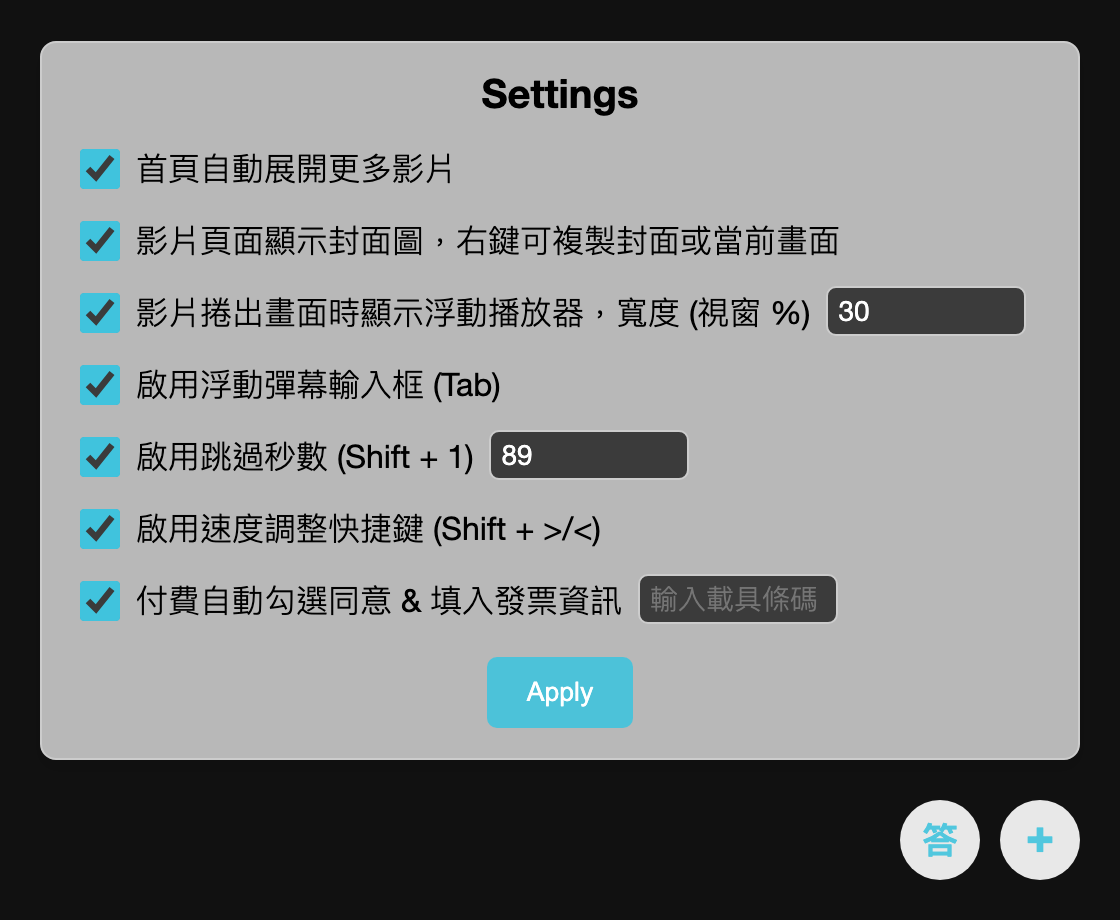
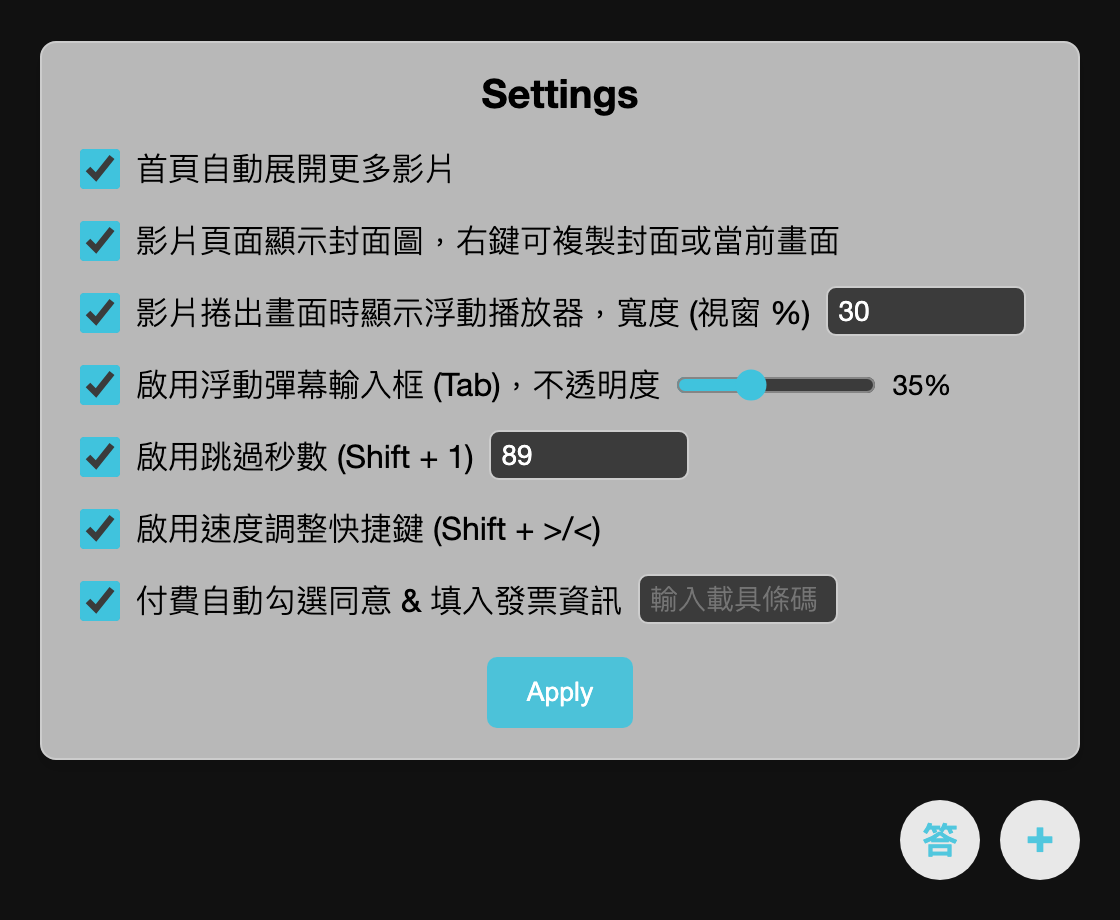
feat(danmuku): 彈幕輸入框改為半透明黑底並可調整不透明度
移除毛玻璃模糊、陰影與聚焦時的青色邊框，改用純黑半透明背景。設定面板新增 0–100% 不透明度滑桿（預設 35%），拖動時即時套用到開啟中的輸入框，按 Apply 儲存。

Changed region(s): [[0.4688, 0.3957, 0.8438, 0.4565]]

diff --git a/utils.js b/utils.js
@@ -174,6 +174,19 @@ function injectStyles() {
             outline: none;
         }
 
+        .anigamerkit-settings-range {
+            width: 100px;
+            margin-left: 8px;
+            accent-color: rgb(64, 195, 221);
+        }
+
+        .anigamerkit-settings-range-value {
+            min-width: 3.5em;
+            margin-left: 6px;
+            font-size: 14px;
+            text-align: left;
+        }
+
         .anigamerkit-settings-apply {
             flex-shrink: 0;
             align-self: center;
@@ -524,35 +537,29 @@ function injectStyles() {
             box-sizing: border-box;
             margin: 0;
             padding: 12px 20px;
-            border: 1px solid rgba(255, 255, 255, 0.28);
+            border: 1px solid rgba(255, 255, 255, 0.18);
             border-radius: 999px;
-            background: linear-gradient(135deg, rgba(255, 255, 255, 0.18), rgba(255, 255, 255, 0.06));
-            -webkit-backdrop-filter: blur(18px) saturate(180%);
-            backdrop-filter: blur(18px) saturate(180%);
-            box-shadow:
-                0 8px 32px rgba(0, 0, 0, 0.35),
-                inset 0 1px 0 rgba(255, 255, 255, 0.35);
+            /* Plain black tint, strength set from the settings panel via applyDanmukuBoxOpacity */
+            background: rgba(0, 0, 0, var(--anigamerkit-danmuku-box-alpha, 0.35));
+            -webkit-backdrop-filter: none;
+            backdrop-filter: none;
+            box-shadow: none !important;
+            outline: none !important;
             color: #fff;
-            caret-color: rgb(64, 195, 221);
+            caret-color: #fff;
             font-size: 16px;
             line-height: 1.4;
             letter-spacing: 0.02em;
-            text-shadow: 0 1px 2px rgba(0, 0, 0, 0.5);
-            outline: none;
-            transition: border-color 0.2s, box-shadow 0.2s;
         }
 
         #custom-input-box::placeholder {
-            color: rgba(255, 255, 255, 0.65);
+            color: rgba(255, 255, 255, 0.55);
             opacity: 1;
         }
 
+        /* No focus highlight: same look whether or not the box is focused */
         #custom-input-box:focus {
-            border-color: rgba(64, 195, 221, 0.8);
-            box-shadow:
-                0 8px 32px rgba(0, 0, 0, 0.35),
-                0 0 0 3px rgba(64, 195, 221, 0.25),
-                inset 0 1px 0 rgba(255, 255, 255, 0.35);
+            border-color: rgba(255, 255, 255, 0.18);
         }
     `;
     const style = document.createElement('style');
@@ -589,6 +596,7 @@ function filterPage(DEFAULT_SETTINGS) {
         }
 
         if (GM_getValue('enableCenteredDanmukuBox', DEFAULT_SETTINGS.enableCenteredDanmukuBox)) {
+            applyDanmukuBoxOpacity(GM_getValue('danmukuBoxOpacity', DEFAULT_SETTINGS.danmukuBoxOpacity));
             document.addEventListener('fullscreenchange', attachDanmukuBoxToPlayer);
             document.addEventListener('keydown', toggleDanmukuBox, true);
         }

diff --git a/user_settings.js b/user_settings.js
@@ -27,7 +27,17 @@ const SETTINGS_SCHEMA = [
     {
         key: 'enableCenteredDanmukuBox',
         checkboxId: 'centeredDanmukuBoxCheckbox',
-        label: '啟用浮動彈幕輸入框 (Tab)'
+        label: '啟用浮動彈幕輸入框 (Tab)，不透明度',
+        input: {
+            key: 'danmukuBoxOpacity',
+            id: 'danmukuBoxOpacity',
+            type: 'range',
+            min: 0,
+            max: 100,
+            unit: '%',
+            // Preview on the open box while dragging; Apply saves it
+            onInput: (value) => applyDanmukuBoxOpacity(value)
+        }
     },
     {
         key: 'enableSkipVideo',
@@ -213,6 +223,31 @@ function createOption(setting, isDarkMode) {
             }
             inputBox.step = '1';
         }
+        if (setting.input.type === 'range') {
+            inputBox.className = 'anigamerkit-settings-range';
+            inputBox.min = setting.input.min;
+            inputBox.max = setting.input.max;
+            inputBox.step = '1';
+            inputBox.value = setting.input.value ?? '';
+
+            const valueLabel = document.createElement('span');
+            valueLabel.className = 'anigamerkit-settings-range-value';
+            if (isDarkMode) {
+                valueLabel.classList.add('anigamerkit-settings-dark-text');
+            }
+            const showValue = () => {
+                valueLabel.textContent = `${inputBox.value}${setting.input.unit ?? ''}`;
+            };
+            showValue();
+            inputBox.addEventListener('input', () => {
+                showValue();
+                setting.input.onInput?.(Number(inputBox.value));
+            });
+
+            container.appendChild(inputBox);
+            container.appendChild(valueLabel);
+            return { setting, container, checkBox, inputBox };
+        }
         if (setting.input.uppercase) {
             inputBox.addEventListener('input', () => {
                 inputBox.value = inputBox.value.toUpperCase();
@@ -238,7 +273,7 @@ function saveOption(control, DEFAULT_SETTINGS) {
     const rawValue = inputBox.value.trim();
     let value = rawValue || previousValue;
 
-    if (inputSetting.type === 'number') {
+    if (inputSetting.type === 'number' || inputSetting.type === 'range') {
         const numericValue = Number(rawValue);
         const withinMax = inputSetting.max === undefined || numericValue <= inputSetting.max;
         value = rawValue !== '' && Number.isInteger(numericValue) && numericValue >= inputSetting.min && withinMax

diff --git a/danmuku.js b/danmuku.js
@@ -62,6 +62,15 @@ function toggleDanmukuBox(event) {
     }
 }
 
+/**
+ * Set how dark the danmuku box's black tint is. Takes effect immediately, even while the box is open.
+ * @param {number} percent - Tint opacity from 0 (fully transparent) to 100 (solid black)
+ **/
+function applyDanmukuBoxOpacity(percent) {
+    const value = Math.min(100, Math.max(0, Number(percent) || 0));
+    document.documentElement.style.setProperty('--anigamerkit-danmuku-box-alpha', String(value / 100));
+}
+
 function closeDanmukuBox() {
     if (!danmukuBox || danmukuBox.style.display !== 'block') {
         return;

diff --git a/anigamer_kits.user.js b/anigamer_kits.user.js
@@ -24,6 +24,7 @@ onDomReady(() => {
         floatingVideoWidthPercent: 30,
         continuousPlayMode: 'off',
         enableCenteredDanmukuBox: true,
+        danmukuBoxOpacity: 35,
         enableSpeedControlShortcut: true,
         enableAutoInputPaymentInfo: true,
         enableSkipVideo: true,
